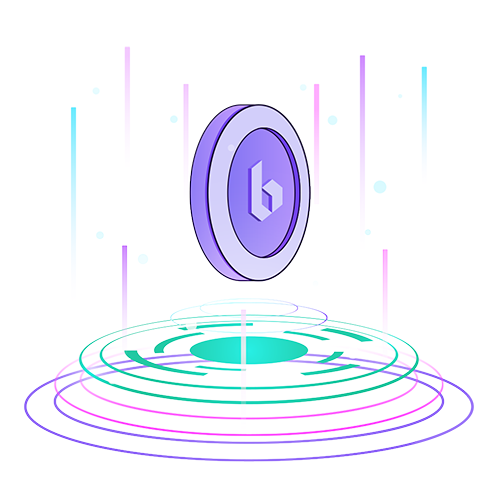
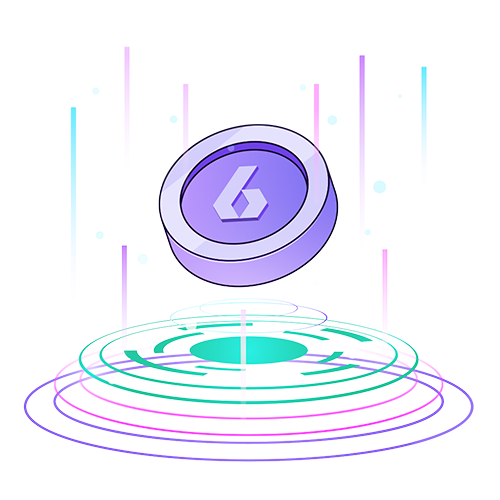
update

diff --git a/content/boraportal/index.html b/content/boraportal/index.html
@@ -200,10 +200,10 @@
                 </svg>
               </div></a>
             <div class="main__gallery">
-              <div class="main__preview" data-aos="animation-translate-up" data-aos-anchor=".main__gallery"><img class="some-icon" srcSet="img/content/illust/bora@2x.png 2x" src="img/content/illust/bora.png" alt="Watch"><img class="some-icon-dark" srcSet="img/content/illust/bora@2x.png 2x" src="img/content/illust/bora.png" alt="Watch"></div>
-              <div class="main__preview" data-aos="animation-translate-up" data-aos-delay="600" data-aos-anchor=".main__gallery"><img srcSet="img/content/object1.png 2x" src="img/content/object1.png" alt="Ball"></div>
-              <div class="main__preview" data-aos="animation-translate-up" data-aos-delay="300" data-aos-anchor=".main__gallery"><img srcSet="img/content/object3.png 2x" src="img/content/object3.png" alt="Bottle"></div>
-              <div class="main__preview" data-aos="animation-translate-up" data-aos-delay="900" data-aos-anchor=".main__gallery"><img srcSet="img/content/object2.png 2x" src="img/content/object2.png" alt="Ball black"></div>
+              <div class="main__preview" data-aos="animation-translate-up" data-aos-anchor=".main__gallery"><img class="some-icon" srcSet="img/content/illust/bora@2x.png 2x" src="img/content/illust/bora.png" alt="BORA"><img class="some-icon-dark" srcSet="img/content/illust/bora@2x.png 2x" src="img/content/illust/bora.png" alt="BORA"></div>
+              <div class="main__preview" data-aos="animation-translate-up" data-aos-delay="600" data-aos-anchor=".main__gallery"><img srcSet="img/content/illust/bora2@2x.png 2x" src="img/content/illust/bora2.png" alt="BORA"></div>
+              <div class="main__preview" data-aos="animation-translate-up" data-aos-delay="300" data-aos-anchor=".main__gallery"><img srcSet="img/content/illust/bora3@2x.png 2x" src="img/content/illust/bora3.png" alt="BORA"></div>
+              <div class="main__preview" data-aos="animation-translate-up" data-aos-delay="900" data-aos-anchor=".main__gallery"><img srcSet="img/content/illust/bora1@2x.png 2x" src="img/content/illust/bora1.png" alt="BORA"></div>
             </div>
           </div>
         </div>

diff --git a/content/boraportal/css/app.min.css b/content/boraportal/css/app.min.css
@@ -2164,7 +2164,7 @@ body.dark .some-icon {
 
 .button-small {
   height: 40px;
-  border-radius: 20px;
+  border-radius: 6px;
   padding: 0 16px;
   font-size: 14px; }
 
@@ -3330,7 +3330,7 @@ body.dark .some-icon {
   .main__gallery {
     position: absolute;
     top: 50%;
-    right: calc(50% - 465px);
+    right: calc(50% - 520px);
     width: 512px;
     -webkit-transform: translateY(-58%);
         -ms-transform: translateY(-58%);
@@ -3362,18 +3362,18 @@ body.dark .some-icon {
     position: relative;
     z-index: 2; }
   .main__preview:nth-child(2) {
-    top: 36%;
-    right: -18%;
+    top: 32%;
+    right: -15%;
     z-index: 3;
-    width: 45%; }
+    width: 38%; }
   .main__preview:nth-child(3) {
-    top: -12%;
-    right: -7%;
+    top: -8%;
+    right: 10%;
     z-index: 1;
-    width: 45%; }
+    width: 40%; }
   .main__preview:nth-child(4) {
-    left: -5%;
-    bottom: 5%;
+    left: -15%;
+    bottom: 20%;
     z-index: 3;
     width: 40%; }
   .main__preview:not(:first-child) {
